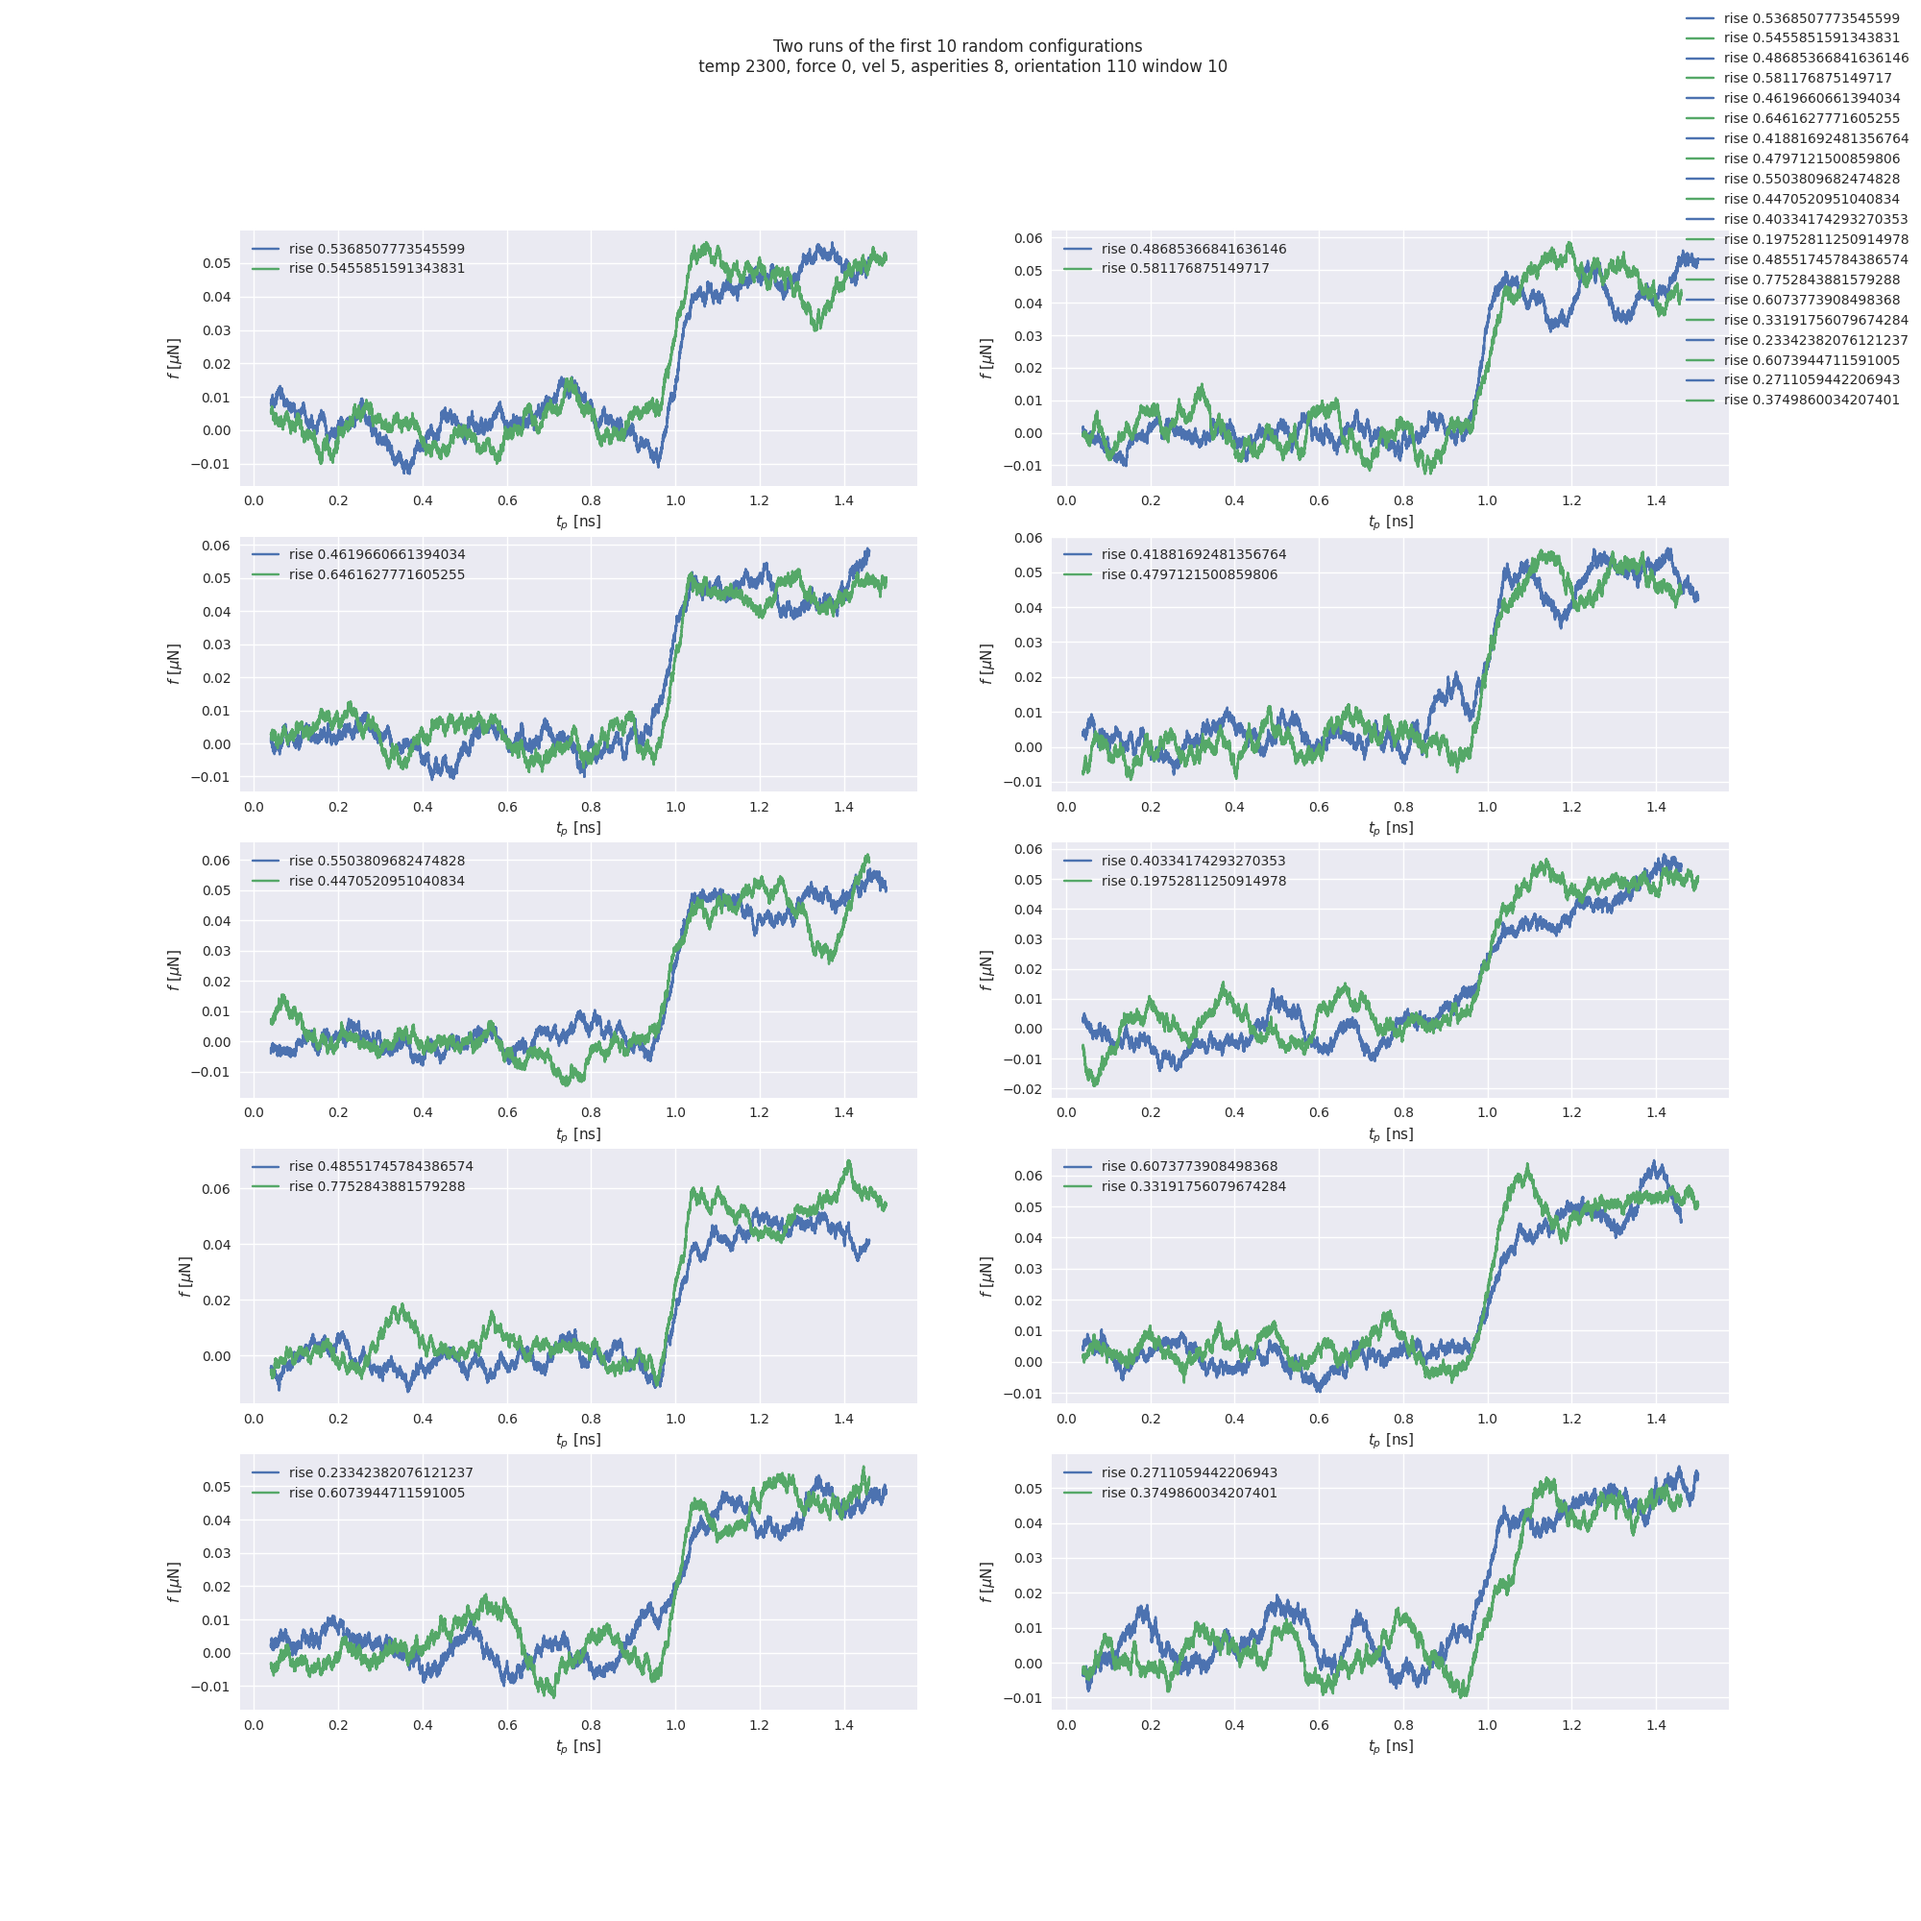
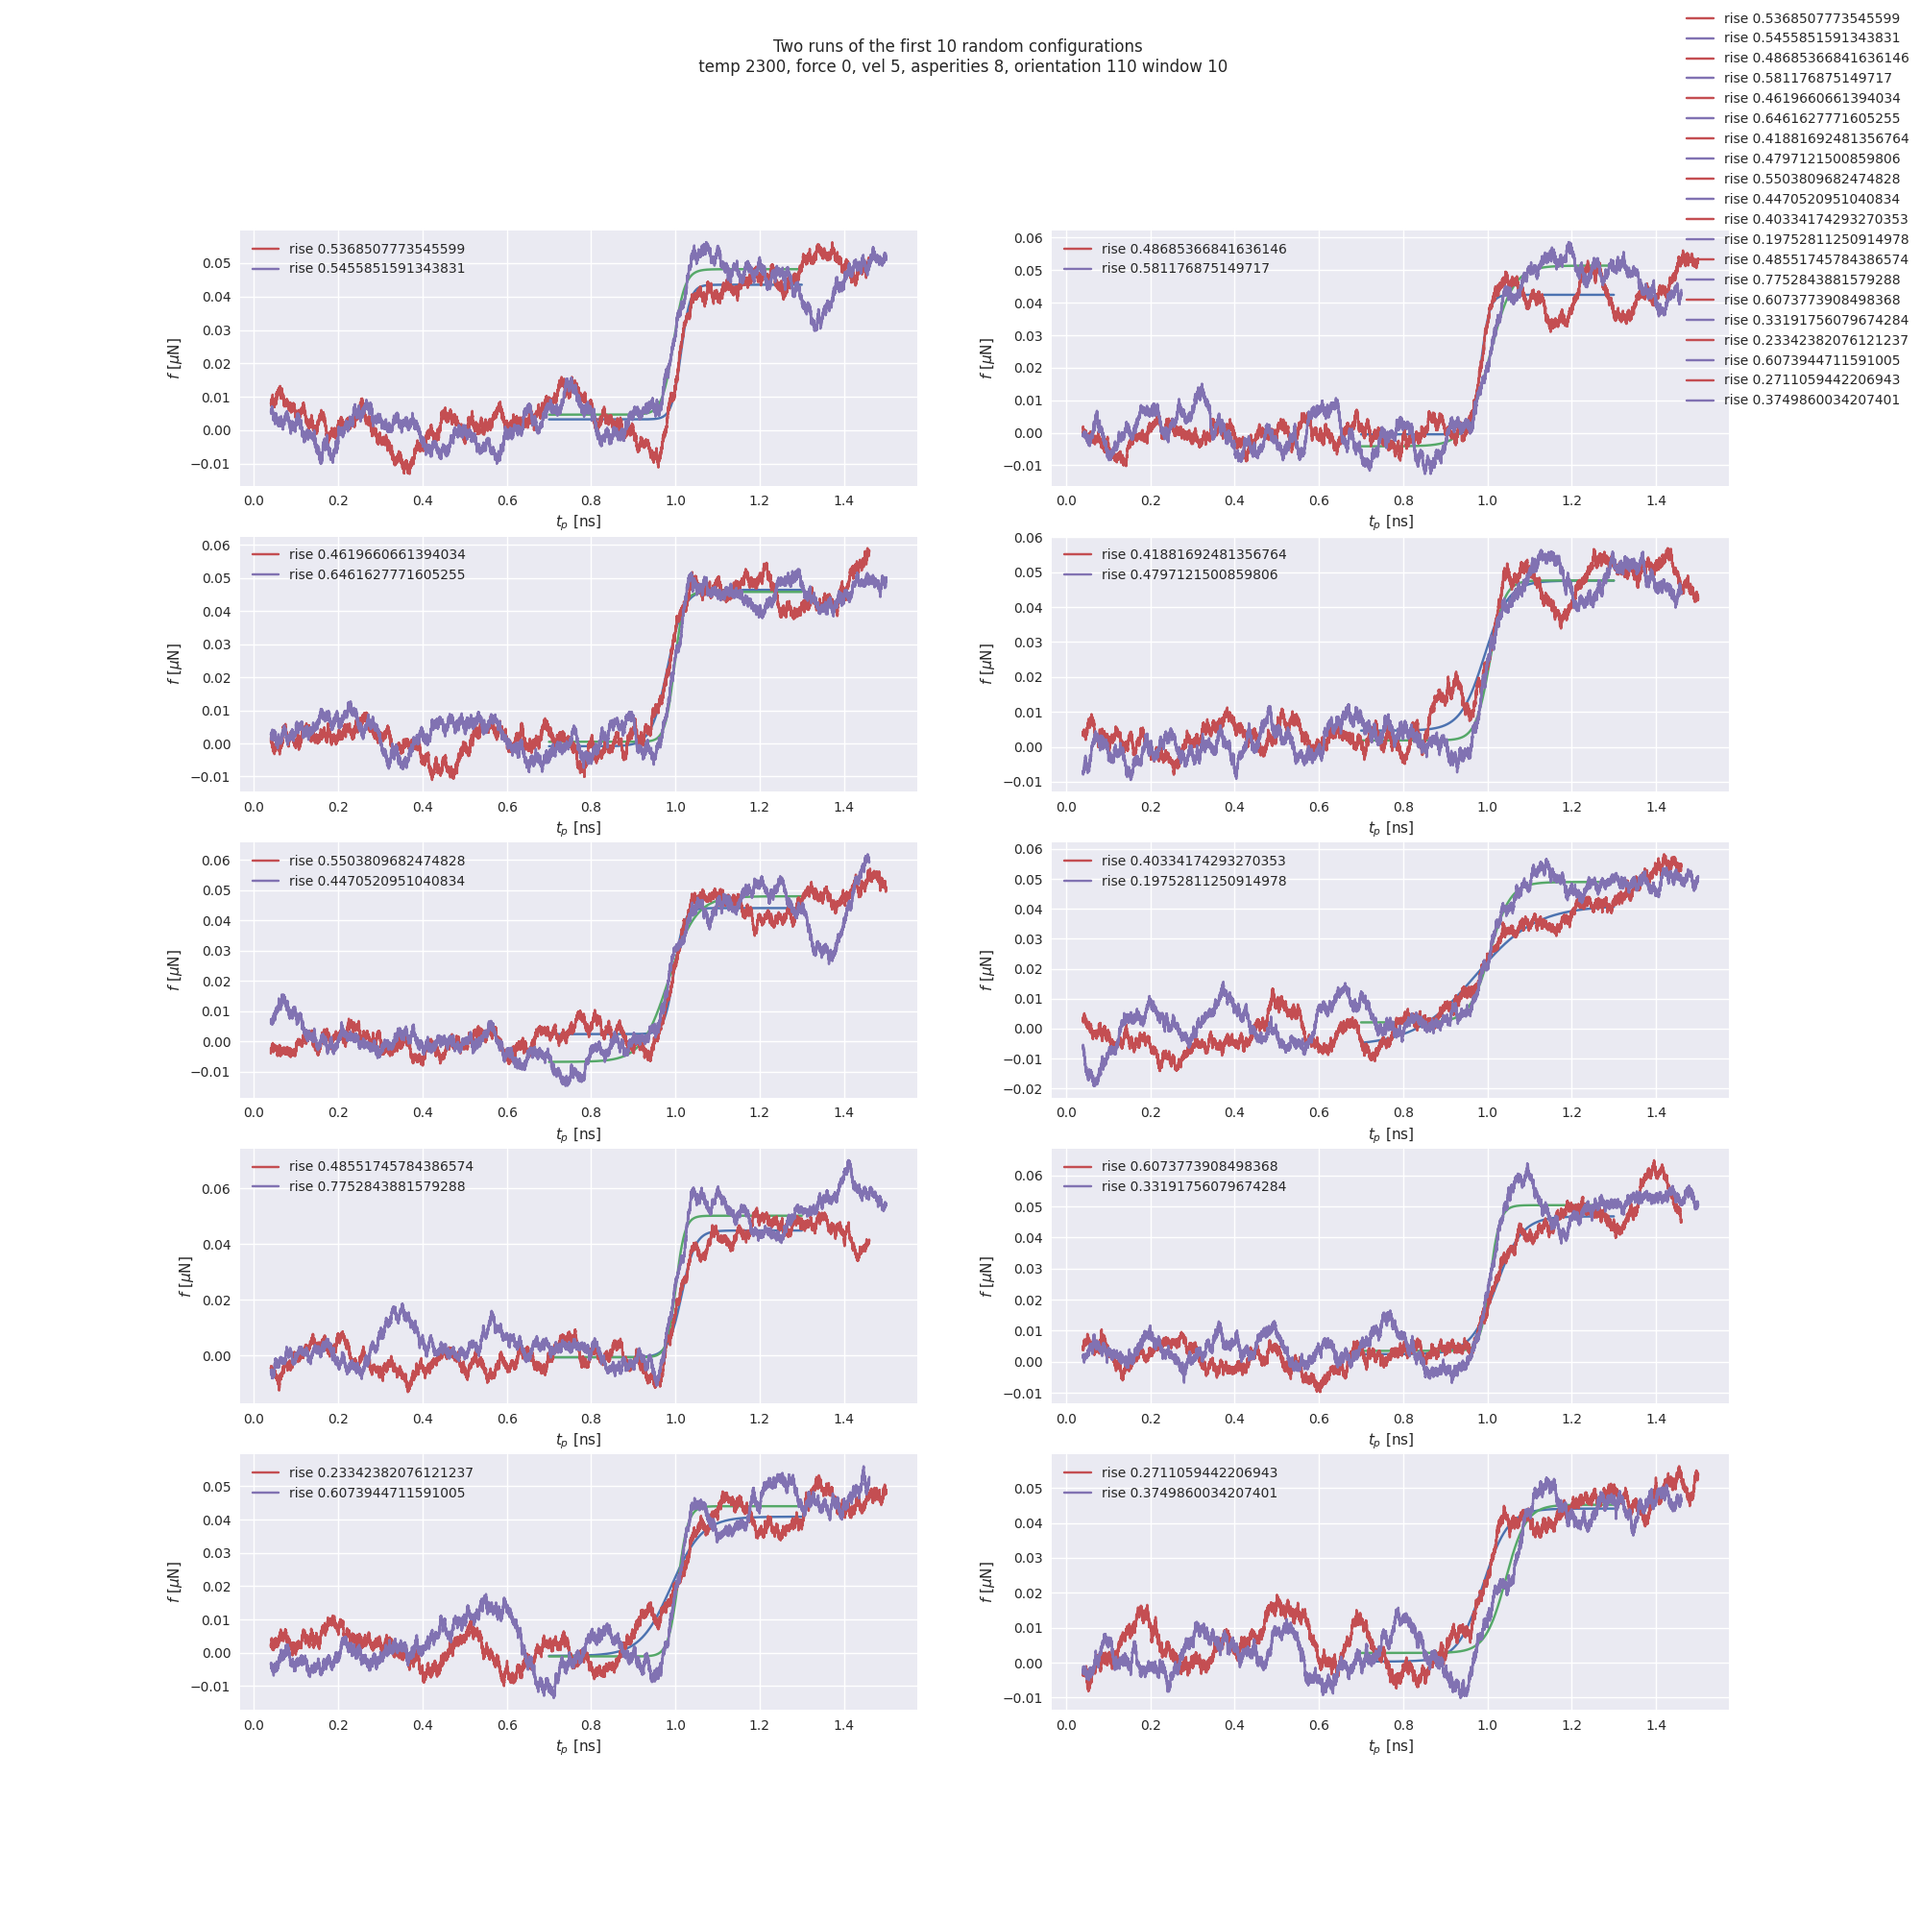
fig now with git_sigmoid funciton. does same as in post_utils but now i can plot it

diff --git a/python/plot/plot_load_curves.py b/python/plot/plot_load_curves.py
@@ -16,14 +16,59 @@ import matplotlib as mpl
 import matplotlib.pyplot as plt
 from multiline import multiline
 from matplotlib import style
+from scipy.optimize import curve_fit
 plt.style.use('seaborn')
 
 def sigmoid(x, L ,x0, k, b):
     y = L / (1 + np.exp(-k*(x-x0))) + b
     return (y)
 
-def plot_sigmoid(load_curve):
-    pass
+def fit_sigmoid(load_curve, fig, axs):
+    '''
+    https://docs.scipy.org/doc/scipy/reference/generated/scipy.optimize.curve_fit.html
+    https://stackoverflow.com/questions/55725139/fit-sigmoid-function-s-shape-curve-to-data-using-python
+    '''
+    time = load_curve[:,0]
+    fx = load_curve[:,1]
+    
+    #fitting sigmoid to selected interval.
+    polfit_start_indx = (np.abs(time - 0.7)).argmin()
+    polfit_stop_indx = (np.abs(time - 1.3)).argmin()
+    #translation so it has same shape as load_curve
+    polfit_data = np.array((time[polfit_start_indx:polfit_stop_indx],
+                           fx[polfit_start_indx:polfit_stop_indx])).T
+
+
+    #curve fit doesn't like nan. removing theese for now
+    non_nan_mask = ~np.isnan(polfit_data[:,1])
+
+    #https://stackoverflow.com/questions/55725139/fit-sigmoid-function-s-shape-curve-to-data-using-python
+    time_nnan = polfit_data[non_nan_mask,0]
+    load_curve_nnan = polfit_data[non_nan_mask,1]
+    #this was [max(time_nnan), etc and worked.. website says ydata first
+    p0 = [max(time_nnan), np.median(time_nnan),1,min(load_curve_nnan)] # this is an mandatory initial guess
+
+
+    popt, pcov = curve_fit(sigmoid, time_nnan, load_curve_nnan,p0, method='dogbox')
+
+    #max_rise = np.max(np.gradient(sigmoid(time_nnan, *popt))) this gives wrong values. idk
+
+    #repeating selection and polyfit but this time fitting linear func to sigmoid midriff
+    midriff = np.array((popt[1] - 0.05, popt[1] + 0.05))
+
+    print(f'midriff ',midriff)
+    midriff_start_indx = (np.abs(time_nnan - midriff[0])).argmin()
+    midriff_stop_indx = (np.abs(time_nnan - midriff[1])).argmin()
+
+    print('midriff indices ', midriff_start_indx, midriff_stop_indx)
+    polfit_data2 = np.array((time_nnan[midriff_start_indx:midriff_stop_indx],
+                            load_curve_nnan[midriff_start_indx:midriff_stop_indx])).T
+
+    rise, intersect = np.polyfit(polfit_data2[:,0], polfit_data2[:,1], 1)
+
+    axs.plot(time_nnan, sigmoid(time_nnan, *popt))
+    
+    return 1
 
 def load_displacement(temp, vel, force, orientation, grid, disp_template, initnum, seeds):
     disp_all = []
@@ -323,11 +368,15 @@ def plot_mean_of_multiple():
             if j != shortest[1]:
                 load_curves[j] = load_curves[j][:shortest[0]]
 
+            fit_sigmoid(load_curve, fig, axs[i])
+
         for rise_file in rise_files:
             rise.append(loadtxt(rise_file))
         #for ms_file in ms_files:
         #    print(ms_file)
         #    ms.append(ms_file)
+
+
         axs[i].plot(load_curves[0][:,0], load_curves[0][:,1], label = f'rise {rise[0]}')
         axs[i].plot(load_curves[1][:,0], load_curves[1][:,1], label = f'rise {rise[1]}')
         axs[i].set_xlabel(r"$t_p$ [ns]")

diff --git a/python/post/post_utils.py b/python/post/post_utils.py
@@ -322,7 +322,6 @@ def extract_load_curves(logfile, delta=None, init_time=0, window=1,
     #running mean before finding rise?
     
     #finding where push starts, and about where it breaks
-    print(len(time))
     push_start_indx = (np.abs(time - 1.0)).argmin()
     push_stop_indx = (np.abs(time-1.03)).argmin()
 
@@ -348,7 +347,6 @@ def extract_load_curves(logfile, delta=None, init_time=0, window=1,
 
 
     popt, pcov = curve_fit(sigmoid, time_nnan, load_curve_nnan,p0, method='dogbox')
-    print(popt)
 
     #max_rise = np.max(np.gradient(sigmoid(time_nnan, *popt))) this gives wrong values. idk
 
